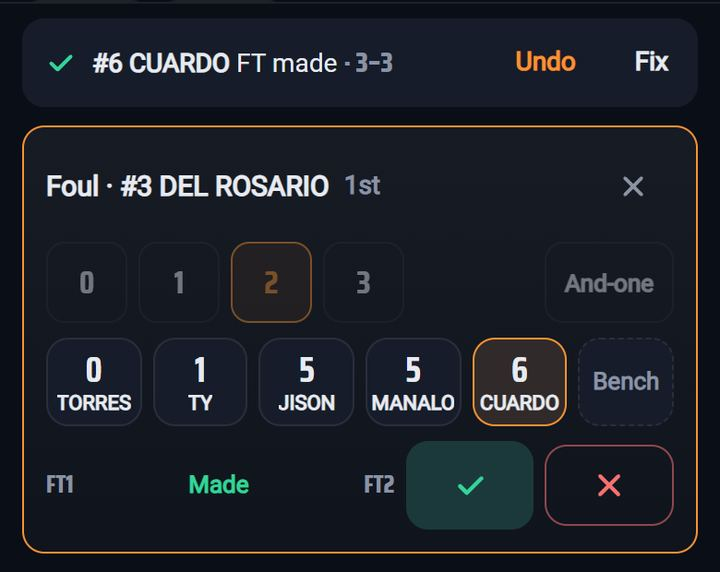
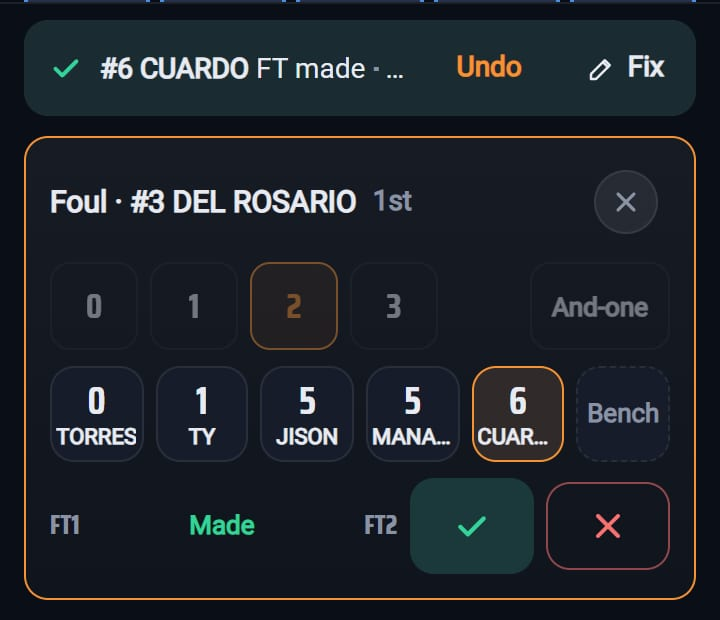
Scorer: one close button everywhere, overlays lifted above the scorer
Every × in the scorer is the same 32px round chip (.sc-x; .sc-tmn__x gone),
and Score by quarter and the player card pop-ups get one. Sheets, pop-ups and
Table display get a lighter fill, a light top edge, a shadow and a deeper dim
(--ov-* tokens, light theme too) so they no longer blend into the scorer.
Guide: retook subs, team, fouls and fix-panel screenshots; holds line says
how the pop-ups close.

diff --git a/public/app.css b/public/app.css
@@ -36,6 +36,8 @@
   --pick-white: #d7dce5; --pick-black: #8a94a6; /* pick bar edges: Black runs lighter so it shows on the row */
   --shirt-light: #e7eaf0; --shirt-dark: #262d3b; --shirt-edge: rgba(255,255,255,0.32); /* Papawis Light / Dark swatches */
   --sc-card: #26304a; --sc-light-edge: var(--shirt-light); --sc-num: #fff; --sc-num-shadow: 0 1px 0 rgba(4,6,10,.7); /* scorer face cards */
+  /* Scorer overlays (sheets, pop-ups, Table display): a lighter fill, a light top edge, a shadow and a deep dim, so they sit above the scorer (Paolo, 2026-11-11) */
+  --ov-scrim: rgba(3,5,9,.72); --ov-fill: #161c29; --ov-raised: #202839; --ov-edge: rgba(255,255,255,.12); --ov-shadow: 0 -18px 48px rgba(0,0,0,.6); --ov-pop-shadow: 0 24px 60px rgba(0,0,0,.7);
   color-scheme: dark;
 }
 :root[data-theme="light"] {
@@ -46,6 +48,7 @@
   --win: #047857; --loss: #dc2626; --danger: #dc2626;
   --team-white: #8d97a8; --team-black: #4a5263; --pick-white: #79839a; --pick-black: #4a5263; --shirt-light: #ffffff; --shirt-dark: #2a3140; --shirt-edge: #8a93a4;
   --sc-card: #dde1e9; --sc-light-edge: #8a93a4; --sc-num: #111827; --sc-num-shadow: 0 1px 0 rgba(255,255,255,.6);
+  --ov-scrim: rgba(10,14,22,.42); --ov-fill: #ffffff; --ov-raised: #eceef3; --ov-edge: transparent; --ov-shadow: 0 -12px 40px rgba(10,14,22,.22); --ov-pop-shadow: 0 20px 50px rgba(10,14,22,.28);
   color-scheme: light;
 }
 @media (prefers-color-scheme: light) {
@@ -57,6 +60,7 @@
     --win: #047857; --loss: #dc2626; --danger: #dc2626;
     --team-white: #8d97a8; --team-black: #4a5263; --pick-white: #79839a; --pick-black: #4a5263; --shirt-light: #ffffff; --shirt-dark: #2a3140; --shirt-edge: #8a93a4;
     --sc-card: #dde1e9; --sc-light-edge: #8a93a4; --sc-num: #111827; --sc-num-shadow: 0 1px 0 rgba(255,255,255,.6);
+    --ov-scrim: rgba(10,14,22,.42); --ov-fill: #ffffff; --ov-raised: #eceef3; --ov-edge: transparent; --ov-shadow: 0 -12px 40px rgba(10,14,22,.22); --ov-pop-shadow: 0 20px 50px rgba(10,14,22,.28);
     color-scheme: light;
   }
 }
@@ -1812,8 +1816,12 @@ button.sc-clk__t { min-height: 44px; padding: 0 2px; background: none; border: 0
 .sc-q--opt { position: relative; overflow: hidden; gap: 6px; padding: 6px 6px 10px 12px; border: 1px solid var(--hair); }
 .sc-q--opt .sc-q__h { min-height: 44px; }
 .sc-q__optl { font-size: 12px; color: var(--muted); }
-.sc-x { display: flex; align-items: center; justify-content: center; width: 44px; height: 44px; border-radius: 10px; color: var(--muted); }
-.sc-x svg { width: 18px; height: 18px; }
+/* The one close button in the scorer: a 32px round chip inside a 44px tap area, see-through so it sits on any card or sheet (Paolo, 2026-11-11) */
+.sc-x { position: relative; flex: none; display: flex; align-items: center; justify-content: center; width: 44px; height: 44px; padding: 0; border: 0; border-radius: 50%; background: none; color: var(--muted); }
+.sc-x::before { content: ""; position: absolute; inset: 6px; border-radius: 50%; background: color-mix(in srgb, var(--text) 8%, transparent); box-shadow: inset 0 0 0 1px var(--hair); }
+.sc-x:active::before { background: color-mix(in srgb, var(--text) 16%, transparent); }
+.sc-x:active { color: var(--text); }
+.sc-x svg { position: relative; width: 16px; height: 16px; }
 .sc-q--opt .sc-q__opts { padding-right: 6px; }
 .sc-q--opt .sc-opt { min-height: 44px; }
 .sc-q__timer { position: absolute; left: 0; bottom: 0; width: 100%; height: 3px; background: var(--amber); transform-origin: left; }
@@ -1849,6 +1857,8 @@ button.sc-clk__t { min-height: 44px; padding: 0 2px; background: none; border: 0
 .sc-alert__t b { font-size: 15px; font-weight: 700; line-height: 1.2; }
 .sc-alert__t small { font-size: 12px; font-weight: 500; line-height: 1.3; color: #3a2a14; }
 .sc-alert .sc-x { color: #14110d; }
+.sc-alert .sc-x::before { background: rgba(20,17,13,.14); box-shadow: none; }
+.sc-alert .sc-x:active::before { background: rgba(20,17,13,.24); }
 .sc-alert__b { display: grid; grid-template-columns: repeat(2, minmax(0, 1fr)); gap: 8px; }
 .sc-alert__yes, .sc-alert__no { display: flex; align-items: center; justify-content: center; gap: 8px; min-height: 44px; padding: 0 10px; border-radius: var(--r-in); font-size: 14px; font-weight: 600; line-height: 1.15; text-align: center; }
 .sc-alert__yes { border: 0; background: #14110d; color: #fff; }
@@ -1899,8 +1909,6 @@ button.sc-clk__t { min-height: 44px; padding: 0 2px; background: none; border: 0
 .sc-tmn__name { font: 800 20px/1 var(--font-num); letter-spacing: .1em; text-transform: uppercase; }
 .sc-tmn__sub { display: flex; align-items: center; justify-content: center; gap: 6px; height: 44px; padding: 0 14px; border-radius: var(--r-in); border: 0; background: var(--surface-2); color: var(--text); font: 700 15px/1 var(--font-num); letter-spacing: .04em; text-transform: uppercase; }
 .sc-tmn__sub:disabled { opacity: .4; }
-.sc-tmn__x { display: flex; align-items: center; justify-content: center; width: 44px; height: 44px; border-radius: 50%; background: var(--surface-2); color: var(--muted); }
-.sc-tmn__x svg { width: 18px; height: 18px; }
 .sc-tmn__g { display: flex; flex-direction: column; gap: 8px; min-width: 0; }
 .sc-tmn__l { font: 700 11px/1 var(--font-num); letter-spacing: .14em; text-transform: uppercase; color: var(--muted); }
 .sc-tmn__tt { display: flex; flex-direction: column; gap: 4px; min-width: 0; text-align: left; }
@@ -1972,9 +1980,13 @@ button.sc-clk__t { min-height: 44px; padding: 0 2px; background: none; border: 0
 }
 
 /* Hold popovers: the score by quarter, a player's line */
-.sc-peek { position: fixed; inset: 0; z-index: 70; display: flex; align-items: flex-start; justify-content: center; padding: calc(var(--safe-t, 0px) + 110px) 12px 0; background: rgba(5,8,13,.55); }
-.sc-pop { display: grid; grid-template-columns: minmax(0, 1fr) repeat(var(--cols), 40px) 48px; align-items: center; row-gap: 8px; width: 100%; max-width: 480px; padding: 12px 14px; border-radius: var(--r-card); background: var(--surface-2); border: 1px solid var(--hair); box-shadow: 0 14px 40px rgba(0,0,0,.5); font: 600 18px/1 var(--font-num); color: var(--muted); text-align: center; }
+.sc-peek { position: fixed; inset: 0; z-index: 70; display: flex; align-items: flex-start; justify-content: center; padding: calc(var(--safe-t, 0px) + 110px) 12px 0; background: var(--ov-scrim); }
+.sc-pop { display: grid; grid-template-columns: minmax(0, 1fr) repeat(var(--cols), 40px) 48px; align-items: center; row-gap: 8px; width: 100%; max-width: 480px; padding: 12px 14px; border-radius: var(--r-card); background: var(--ov-fill); --surface-2: var(--ov-raised); border: 1px solid var(--ov-edge); box-shadow: var(--ov-pop-shadow); font: 600 18px/1 var(--font-num); color: var(--muted); text-align: center; }
 .sc-pop__h { font-size: 12px; letter-spacing: .08em; }
+/* The pop-up header: title on the left, the close × on the right, across every column */
+.sc-pop__bar { grid-column: 1 / -1; display: flex; align-items: center; justify-content: space-between; gap: 8px; margin: -8px -10px -2px 0; font: 600 15px/1 var(--font-ui); color: var(--text); text-align: left; }
+.sc-pop--p .sc-pop__bar { margin: -8px -8px -6px 0; }
+.sc-pop .sc-pop__bar b { font-size: 15px; font-weight: 600; }
 .sc-pop__t { display: flex; align-items: center; gap: 8px; font: 600 14px/1 var(--font-ui, inherit); color: var(--text); text-align: left; }
 .sc-pop b { color: var(--text); font-size: 22px; }
 .sc-pop .dim { opacity: .5; }
@@ -2013,8 +2025,9 @@ button.sc-clk__t { min-height: 44px; padding: 0 2px; background: none; border: 0
 .sc-pop__line span.zero b { color: var(--muted); }
 
 /* The Scoresheet: a sheet on a phone, docked on a tablet. */
-.sc-sheet { position: fixed; inset: 0; z-index: 60; display: flex; align-items: flex-end; justify-content: center; background: rgba(0,0,0,.55); }
-.sc-sheet__in { width: 100%; max-width: 640px; max-height: 85vh; max-height: 85dvh; overflow-y: auto; padding: 12px 12px calc(12px + var(--safe-b)); box-sizing: border-box; border-radius: var(--r-card) var(--r-card) 0 0; background: var(--bg); }
+.sc-sheet { position: fixed; inset: 0; z-index: 60; display: flex; align-items: flex-end; justify-content: center; background: var(--ov-scrim); }
+.sc-sheet__in { width: 100%; max-width: 640px; max-height: 85vh; max-height: 85dvh; overflow-y: auto; padding: 12px 12px calc(12px + var(--safe-b)); box-sizing: border-box; border-radius: var(--r-card) var(--r-card) 0 0; background: var(--ov-fill); --surface-2: var(--ov-raised); border-top: 1px solid var(--ov-edge); box-shadow: var(--ov-shadow); }
+.sc-sheet .sc-bx th:first-child, .sc-sheet .sc-bx td:first-child { background: var(--ov-fill); }
 .sc-sheet__in--tall { height: 85vh; display: flex; flex-direction: column; overflow: hidden; padding-top: 6px; }
 /* Swipe down to close: the grab bar says so */
 .sc-sheet__grab { flex: none; width: 36px; height: 4px; margin: 0 auto 4px; border-radius: 2px; background: var(--hair); background: color-mix(in srgb, var(--text) 22%, transparent); }
@@ -3049,8 +3062,8 @@ html:has(.bk.is-pinned), html:has(.bk.is-pinned) body { height: 100%; overflow: 
 .gr-tb tbody tr[data-pcard] { cursor: pointer; }
 
 /* Table display pairing (public/scorer.js tableOpen): scan the tablet's code, show this phone's. */
-.sc-tbl { position: fixed; inset: 0; z-index: 60; display: flex; align-items: flex-end; justify-content: center; background: rgba(5,7,11,.6); }
-.sc-tbl__in { width: 100%; max-width: 480px; max-height: 92dvh; overflow-y: auto; display: flex; flex-direction: column; gap: 12px; padding: 12px 16px calc(20px + var(--safe-b)); border-radius: 22px 22px 0 0; background: var(--surface); border-top: 1px solid var(--hair); }
+.sc-tbl { position: fixed; inset: 0; z-index: 60; display: flex; align-items: flex-end; justify-content: center; background: var(--ov-scrim); }
+.sc-tbl__in { width: 100%; max-width: 480px; max-height: 92dvh; overflow-y: auto; display: flex; flex-direction: column; gap: 12px; padding: 12px 16px calc(20px + var(--safe-b)); border-radius: 22px 22px 0 0; background: var(--ov-fill); --surface-2: var(--ov-raised); border-top: 1px solid var(--ov-edge); box-shadow: var(--ov-shadow); }
 .sc-tbl__h { display: flex; align-items: center; justify-content: space-between; font-size: 15px; }
 .sc-tbl__h b { font-weight: 600; }
 .sc-tbl__s { margin: 0; font-size: 14px; color: var(--muted); }
@@ -3058,7 +3071,7 @@ html:has(.bk.is-pinned), html:has(.bk.is-pinned) body { height: 100%; overflow: 
 .sc-tbl__v { width: 100%; aspect-ratio: 1; object-fit: cover; border-radius: var(--r-in); background: #000; }
 .sc-tbl__qr { align-self: center; width: min(100%, 360px); padding: 12px; border-radius: 14px; background: #fff; }
 .sc-tbl__qr svg { display: block; width: 100%; height: auto; }
-@media (min-width: 700px) { .sc-tbl { align-items: center; } .sc-tbl__in { border-radius: 22px; } }
+@media (min-width: 700px) { .sc-tbl { align-items: center; } .sc-tbl__in { border-radius: 22px; border: 1px solid var(--ov-edge); box-shadow: var(--ov-pop-shadow); } }
 
 /* Papawis: a guest added at the court, and someone else holding the run (public/scorer.js). */
 .su-guest input { box-sizing: border-box; width: 100%; height: 44px; padding: 0 14px; border-radius: var(--r-in); border: 1px solid var(--field-border); background: var(--field); color: var(--text); font: inherit; font-size: 16px; }

diff --git a/public/scorer.js b/public/scorer.js
@@ -1347,7 +1347,7 @@ export async function mount(el) {
     const tech = pw ? '' : `<div class="sc-tmn__g">${label('Technical')}<div class="sc-tmn__two"><button type="button" class="sc-tmn__tech" data-ask="coach T">Coach</button><button type="button" class="sc-tmn__tech" data-ask="bench T">Bench</button></div></div>`;
     const noSub = !subBench(t).length;
     return `<div class="sc-q sc-q--menu sc-tmn" role="group" aria-label="${esc(nm)} team menu">
-      <div class="sc-tmn__h"><span class="sc-tmn__dot" style="${sideLook(t)}"></span><b class="sc-tmn__name">${esc(nm)}</b><span class="sc-q__sp"></span><button type="button" class="sc-tmn__sub" data-ask="subq"${noSub ? ' disabled' : ''}>${SWAP_ICON}Sub</button><button type="button" class="sc-tmn__x" data-ask="__cancel" aria-label="Close">${CLOSE}</button></div>
+      <div class="sc-tmn__h"><span class="sc-tmn__dot" style="${sideLook(t)}"></span><b class="sc-tmn__name">${esc(nm)}</b><span class="sc-q__sp"></span><button type="button" class="sc-tmn__sub" data-ask="subq"${noSub ? ' disabled' : ''}>${SWAP_ICON}Sub</button><button type="button" class="sc-x" data-ask="__cancel" aria-label="Close">${CLOSE}</button></div>
       ${timeoutBtn}${tos}${players}
       ${tech ? `<div class="sc-tmn__split">${tech}<div class="sc-tmn__g">${label('Lineup')}${dnp}</div></div>` : `<div class="sc-tmn__g">${label('Lineup')}${dnp}</div>`}
     </div>`;
@@ -1361,7 +1361,7 @@ export async function mount(el) {
     const meta = [whenOf(r), ago <= 0 ? 'last play' : `${ago} play${ago === 1 ? '' : 's'} ago`, r.by && r.dev !== deviceId ? `by ${r.by}` : ''].filter(Boolean).join(' · ');
     return `<div class="sc-fx__play${gone ? ' is-gone' : ''}">${r.team ? `<span class="dot" style="--c:${esc(team[r.team].color)}"></span>` : ''}<span class="sc-fx__w"><span class="sc-fx__what">${playText(r)}</span><small>${esc(meta)}</small></span>${scores(r) && r.made ? `<b class="sc-fx__s num">${r.score.a}–${r.score.b}</b>` : ''}</div>`;
   }
-  const fxHead = (icon, title, close = 'cancel', tone = '') => `<div class="sc-tmn__h"><span class="sc-fx__ic${tone}">${tmIcon(icon)}</span><b class="sc-tmn__name">${esc(title)}</b><span class="sc-q__sp"></span><button type="button" class="sc-tmn__x" data-fx="${close}" aria-label="${close === 'cancel' ? 'Cancel the fix' : 'Back'}">${CLOSE}</button></div>`;
+  const fxHead = (icon, title, close = 'cancel', tone = '') => `<div class="sc-tmn__h"><span class="sc-fx__ic${tone}">${tmIcon(icon)}</span><b class="sc-tmn__name">${esc(title)}</b><span class="sc-q__sp"></span><button type="button" class="sc-x" data-fx="${close}" aria-label="${close === 'cancel' ? 'Cancel the fix' : 'Back'}">${CLOSE}</button></div>`;
   function fixPanel(a) {
     const r = G.rows.find(x => x.id === a.id); if (!r) return '';
     if (a.step === 'who') {
@@ -1646,6 +1646,7 @@ export async function mount(el) {
       const cols = Math.max(4, ps.length);
       const per = Array.from({ length: cols }, (_, i) => ps[i] || { period: i < 4 ? `Q${i + 1}` : `OT${i - 3}`, a: null, b: null });
       return `<div class="sc-peek" data-act="peek-close"><div class="sc-pop" role="dialog" aria-label="Score by quarter" style="--cols:${cols}">
+        <div class="sc-pop__bar"><b>Score by quarter</b><button type="button" class="sc-x" data-act="peek-close" aria-label="Close">${CLOSE}</button></div>
         <span></span>${per.map(p => `<span class="sc-pop__h num">${esc(p.period)}</span>`).join('')}<span class="sc-pop__h num">T</span>
         ${['a', 'b'].map(t => `<span class="sc-pop__t"><span class="dot" style="--c:${esc(team[t].color)}"></span>${esc(team[t].name)}</span>${per.map(p => `<span class="num${p[t] == null ? ' dim' : ''}">${p[t] == null ? '–' : p[t]}</span>`).join('')}<b class="num">${G.score[t]}</b>`).join('')}
       </div></div>`;
@@ -1662,6 +1663,7 @@ export async function mount(el) {
     let lastP = null;
     for (let i = G.rows.length - 1; i >= 0 && !lastP; i--) { const r = G.rows[i]; if (r.player === p.id || r.in === p.id) lastP = r; }
     return `<div class="sc-peek" data-act="peek-close"><div class="sc-pop sc-pop--p" role="dialog" aria-label="${esc(short(p.id))}, this game">
+      <div class="sc-pop__bar"><b>This game</b><button type="button" class="sc-x" data-act="peek-close" aria-label="Close">${CLOSE}</button></div>
       <div class="sc-pc">
         <span class="sc-pc__avw"><span class="avatar sc-pc__av" style="--ring:${esc(team[p.team].color)}">${esc(ini)}${p.photo ? `<img src="${esc(p.photo)}" alt="" onerror="this.remove()">` : ''}</span>${potgLeader() === p.id ? '<i class="sc-pc__star" aria-label="Player of the game so far">★</i>' : ''}</span>
         <span class="sc-pc__who"><small class="num">${p.number ? `#${esc(p.number)} · ` : ''}${esc(team[p.team].name)} · ${onCourt(p.team, p.id) ? 'on court' : 'bench'}</small><b>${esc(p.name)}</b>

diff --git a/views/app/help.js b/views/app/help.js
@@ -37,7 +37,7 @@ export const SCORER_GUIDE = [
       ['steps', [
         'The card flashes what you recorded (<i>+2</i>, <i>MISS</i>, <i>REB</i>) and the play shows in the last-play line.',
         'A bench player’s stat brings them on court and asks who went off.',
-        'Hold a player’s card to see their line so far. Hold a team’s score for the score by quarter.',
+        'Hold a player’s card to see their line so far. Hold a team’s score for the score by quarter. × (or a tap anywhere) closes it.',
         '<b>Scoresheet</b> at the bottom has the box score, every play and the fouls.',
       ]],
       ['tip', 'Good to know', 'A player’s fouls show in the top corner of their card (<i>2F</i>): white when it’s worth watching, red when they’re one away. On a small phone the cards drop the photos, so the numbers and names stay big.'],
